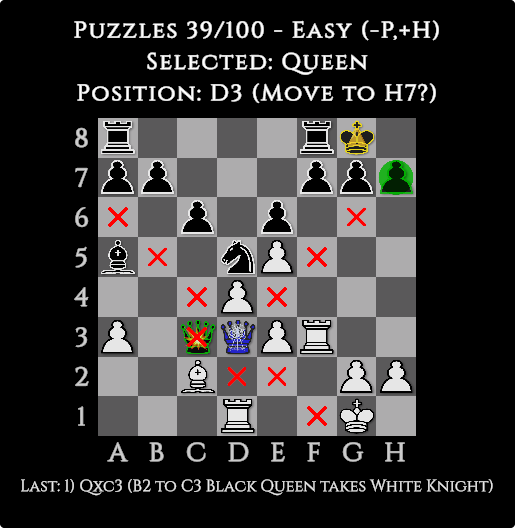
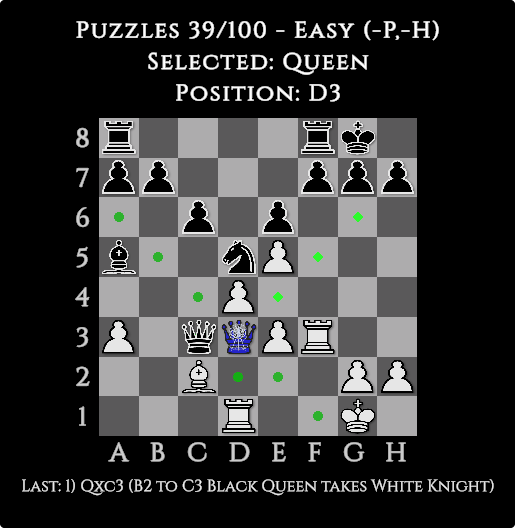
General Updates

diff --git a/index.html b/index.html
@@ -417,7 +417,7 @@
       <p>The <strong>Tab quick board</strong> shows three lines of information — Game Mode, Selection, Position:</p>
       <pre class="status">Puzzles 1/39 - Easy
 Selected: Queen
-Position: D3 (Move to H7?)</pre>
+Position: D3</pre>
       <figure>
         <img src="images/20-tab-status-compact.png" alt="Tab quick board three-line status with puzzle batch index" loading="lazy" onerror="this.classList.add('missing')">
         <figcaption>Tab board compact status — <code>20-tab-status-compact.png</code> (Shift+F3 while Tab overlay is open)</figcaption>